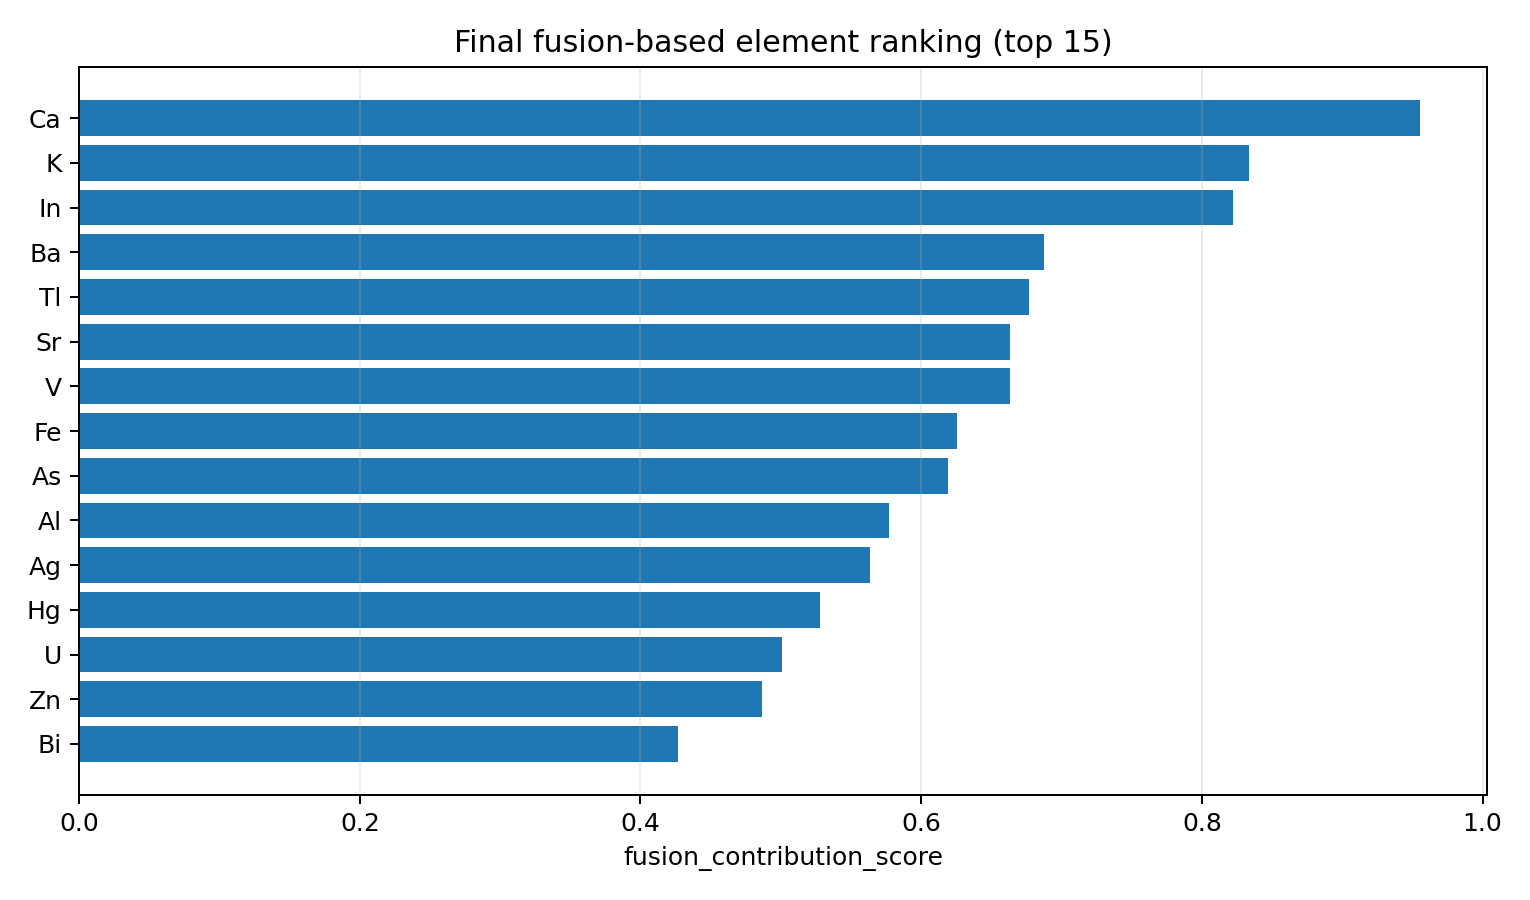
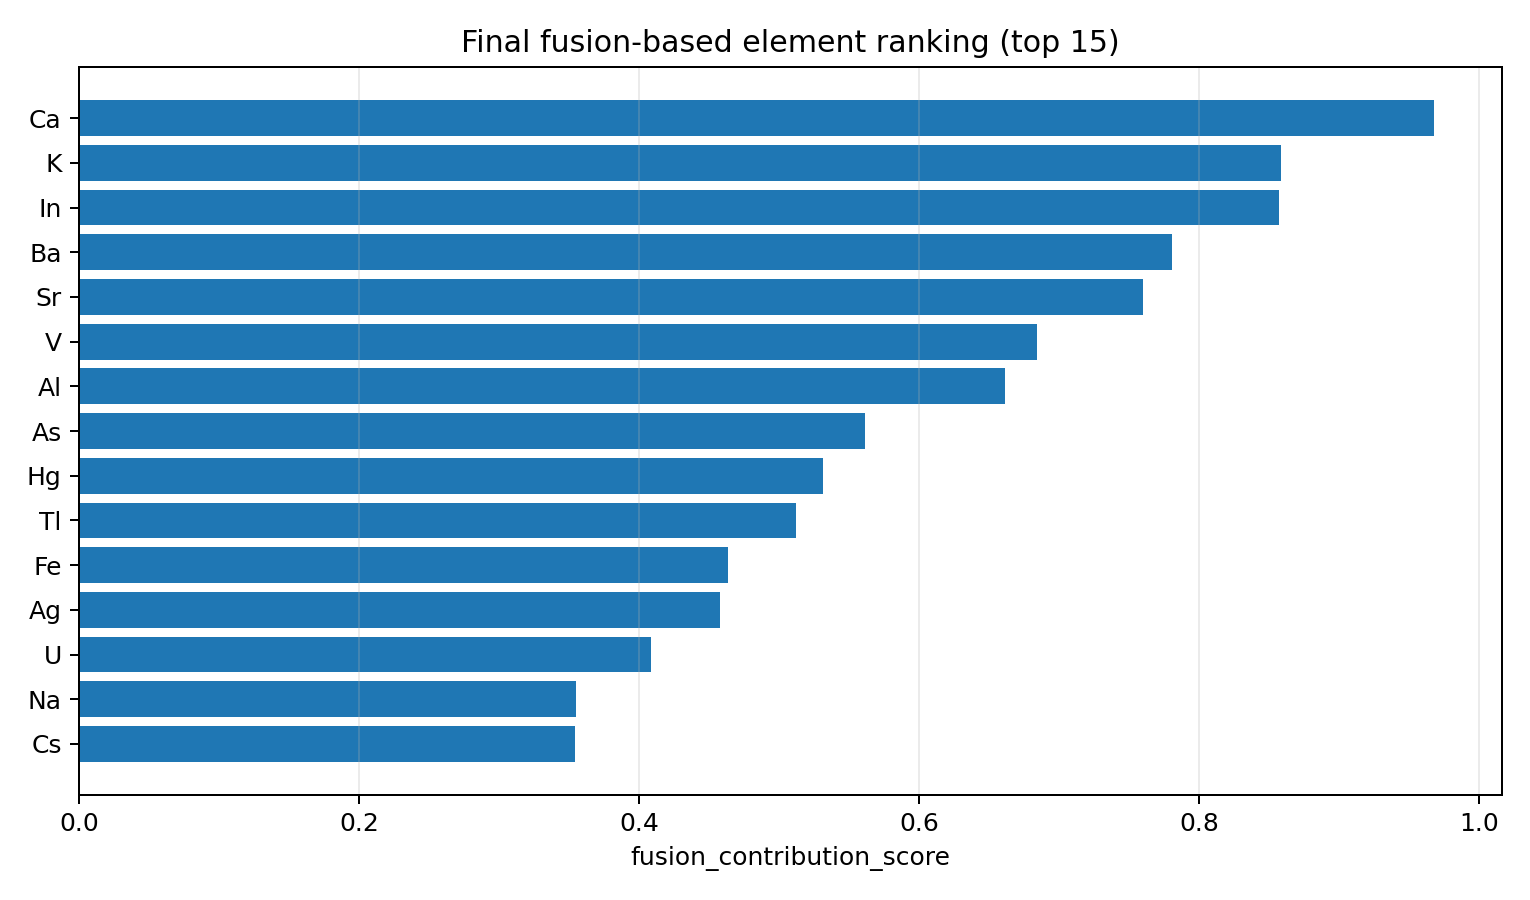
Weight change for final analysis

diff --git a/ckdu_results/fusion/lime_explanations/lime_sample_33_ckdu.html b/ckdu_results/fusion/lime_explanations/lime_sample_33_ckdu.html
@@ -37089,10 +37089,10 @@
 /***/ })
 /******/ ]);
 //# sourceMappingURL=bundle.js.map </script></head><body>
-        <div class="lime top_div" id="top_divLEA2D392CQRTE4S"></div>
+        <div class="lime top_div" id="top_divQ824OT29GD68673"></div>
         
         <script>
-        var top_div = d3.select('#top_divLEA2D392CQRTE4S').classed('lime top_div', true);
+        var top_div = d3.select('#top_divQ824OT29GD68673').classed('lime top_div', true);
         
             var pp_div = top_div.append('div')
                                 .classed('lime predict_proba', true);

diff --git a/ckdu_results/fusion/lime_explanations/lime_sample_49_ckdu.html b/ckdu_results/fusion/lime_explanations/lime_sample_49_ckdu.html
@@ -37089,10 +37089,10 @@
 /***/ })
 /******/ ]);
 //# sourceMappingURL=bundle.js.map </script></head><body>
-        <div class="lime top_div" id="top_div9UO8G2WCGPWBD7Z"></div>
+        <div class="lime top_div" id="top_divHIM1DDF2J72Q5KL"></div>
         
         <script>
-        var top_div = d3.select('#top_div9UO8G2WCGPWBD7Z').classed('lime top_div', true);
+        var top_div = d3.select('#top_divHIM1DDF2J72Q5KL').classed('lime top_div', true);
         
             var pp_div = top_div.append('div')
                                 .classed('lime predict_proba', true);

diff --git a/ckdu_results/fusion/lime_explanations/lime_sample_57_ckdu.html b/ckdu_results/fusion/lime_explanations/lime_sample_57_ckdu.html
@@ -37089,10 +37089,10 @@
 /***/ })
 /******/ ]);
 //# sourceMappingURL=bundle.js.map </script></head><body>
-        <div class="lime top_div" id="top_divC0K4OP7TAN3D6YY"></div>
+        <div class="lime top_div" id="top_divX9HDPJCVWPMPAC7"></div>
         
         <script>
-        var top_div = d3.select('#top_divC0K4OP7TAN3D6YY').classed('lime top_div', true);
+        var top_div = d3.select('#top_divX9HDPJCVWPMPAC7').classed('lime top_div', true);
         
             var pp_div = top_div.append('div')
                                 .classed('lime predict_proba', true);

diff --git a/ckdu_results/fusion/lime_explanations/lime_sample_6_ckdu.html b/ckdu_results/fusion/lime_explanations/lime_sample_6_ckdu.html
@@ -37089,10 +37089,10 @@
 /***/ })
 /******/ ]);
 //# sourceMappingURL=bundle.js.map </script></head><body>
-        <div class="lime top_div" id="top_divMW7KAW4HR9ABP7F"></div>
+        <div class="lime top_div" id="top_divKARGCP2GHWA8NLH"></div>
         
         <script>
-        var top_div = d3.select('#top_divMW7KAW4HR9ABP7F').classed('lime top_div', true);
+        var top_div = d3.select('#top_divKARGCP2GHWA8NLH').classed('lime top_div', true);
         
             var pp_div = top_div.append('div')
                                 .classed('lime predict_proba', true);

diff --git a/ckdu_results/fusion/lime_explanations/lime_sample_76_ckdu.html b/ckdu_results/fusion/lime_explanations/lime_sample_76_ckdu.html
@@ -37089,10 +37089,10 @@
 /***/ })
 /******/ ]);
 //# sourceMappingURL=bundle.js.map </script></head><body>
-        <div class="lime top_div" id="top_divM6VO4MIF2BFMEC0"></div>
+        <div class="lime top_div" id="top_divJOIPBWOT6T5OY78"></div>
         
         <script>
-        var top_div = d3.select('#top_divM6VO4MIF2BFMEC0').classed('lime top_div', true);
+        var top_div = d3.select('#top_divJOIPBWOT6T5OY78').classed('lime top_div', true);
         
             var pp_div = top_div.append('div')
                                 .classed('lime predict_proba', true);

diff --git a/ckdu_suite/analyses/fusion.py b/ckdu_suite/analyses/fusion.py
@@ -293,10 +293,10 @@ def _global_rank_fusion(
     )
 
     out["fusion_contribution_score"] = (
-        0.25 * out["selector_rank_norm"]
-        + 0.35 * out["perm_rank_norm"]
-        + 0.35 * out["shap_rank_norm"]
-        + 0.05 * out["selected_for_raw_branch"]
+        0.35 * out["selector_rank_norm"]
+        + 0.20 * out["perm_rank_norm"]
+        + 0.20 * out["shap_rank_norm"]
+        + 0.25 * out["selected_for_raw_branch"]
     )
     out["legacy_alias"] = [REVERSE_F_ALIAS_MAP.get(f, "") for f in out["feature"]]
     return out.sort_values("fusion_contribution_score", ascending=False).reset_index(drop=True)
